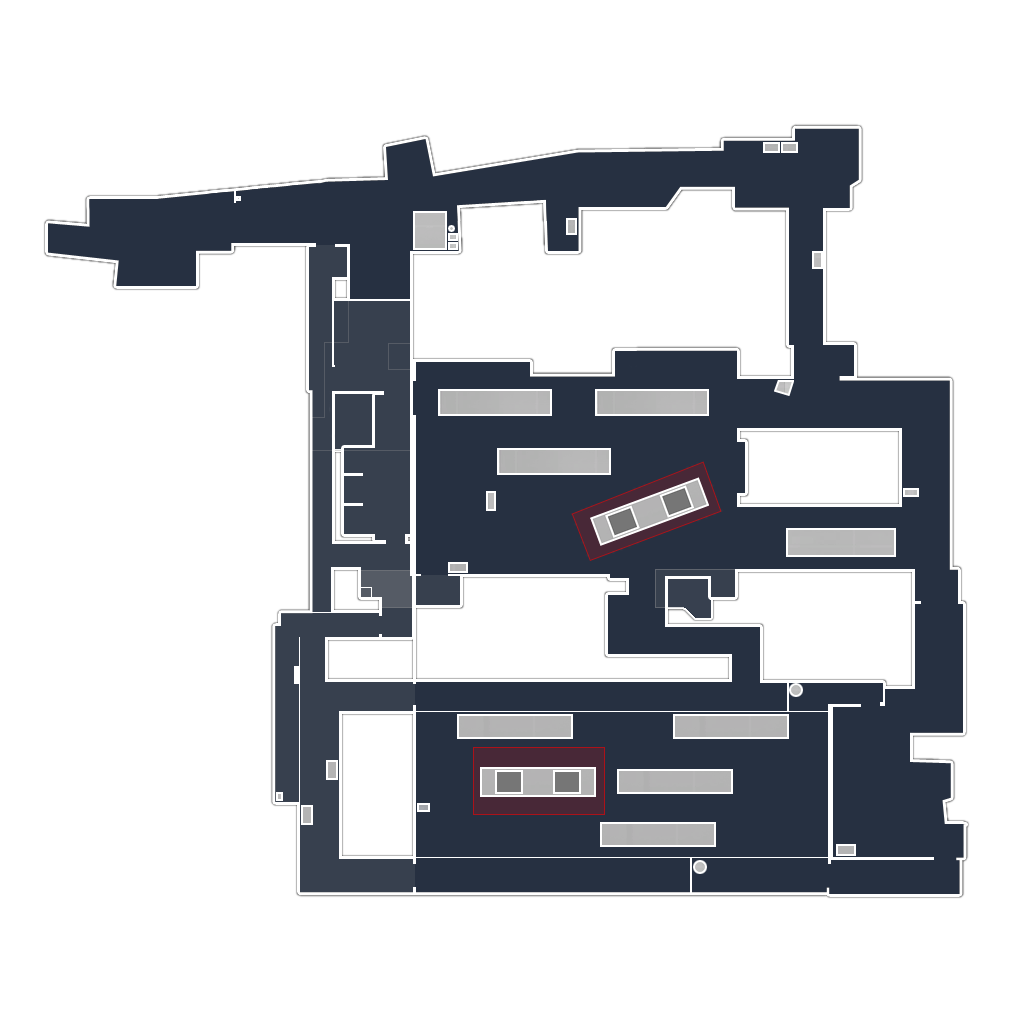
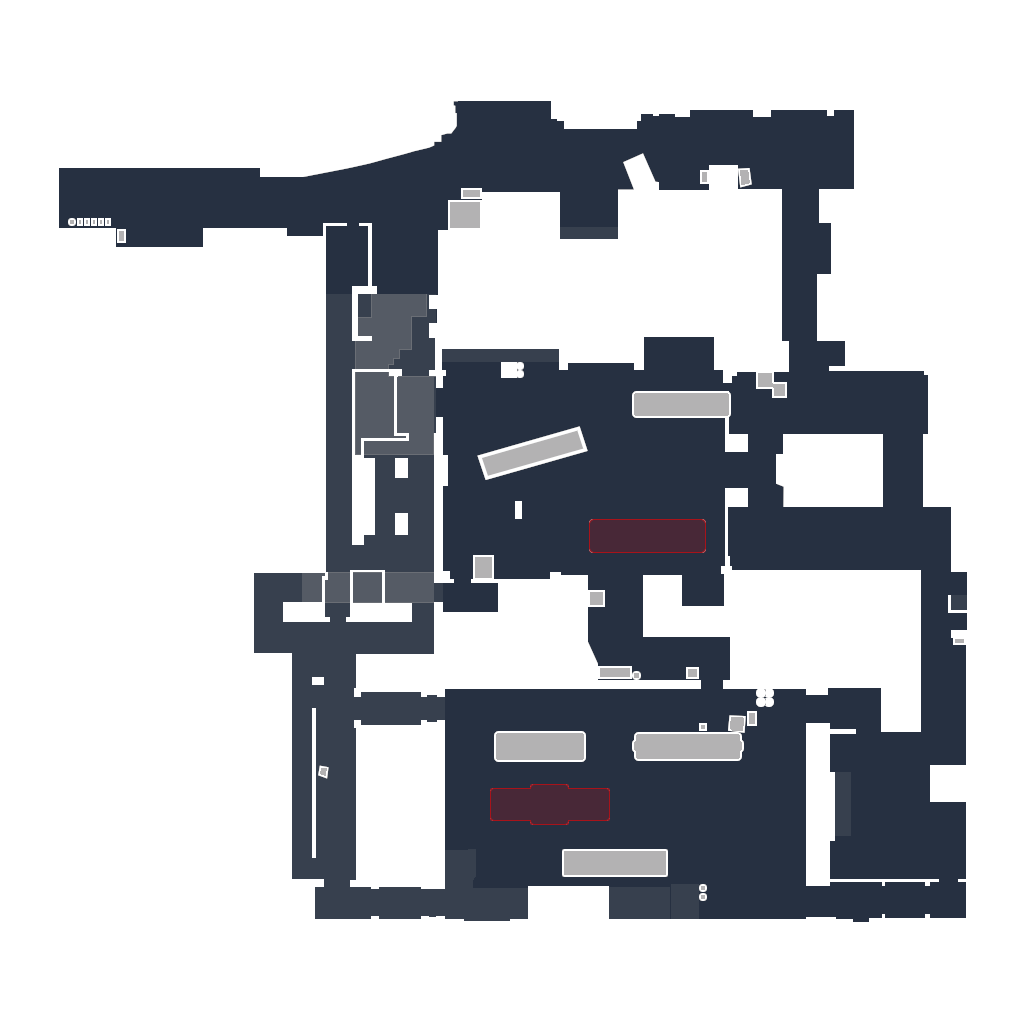
update radar configuration for de_train map

Changed region(s): [[0.0312, 0.0938, 0.9688, 0.9062]]

diff --git a/src/HUD/Radar/LexoRadar/maps/de_train/index.ts b/src/HUD/Radar/LexoRadar/maps/de_train/index.ts
@@ -3,11 +3,11 @@ import radar from './radar.png'
 const config = {
     "config": {
         "origin": {
-            "x": 527.365542903922,
-            "y": 511.81469648562296
+            "x": 557.7279495268139,
+            "y": 507.83243734804853
         },
-        "pxPerUX": 0.21532584158170223,
-        "pxPerUY": -0.21299254526091588
+        "pxPerUX": 0.22712933753943218,
+        "pxPerUY": -0.23013108811174968
     },
     "file":radar
 }
